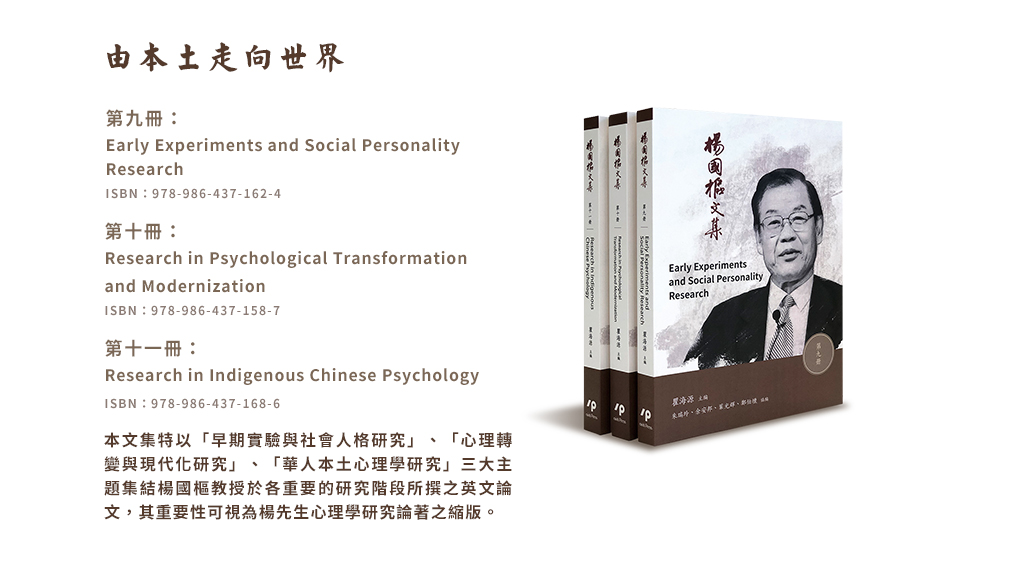
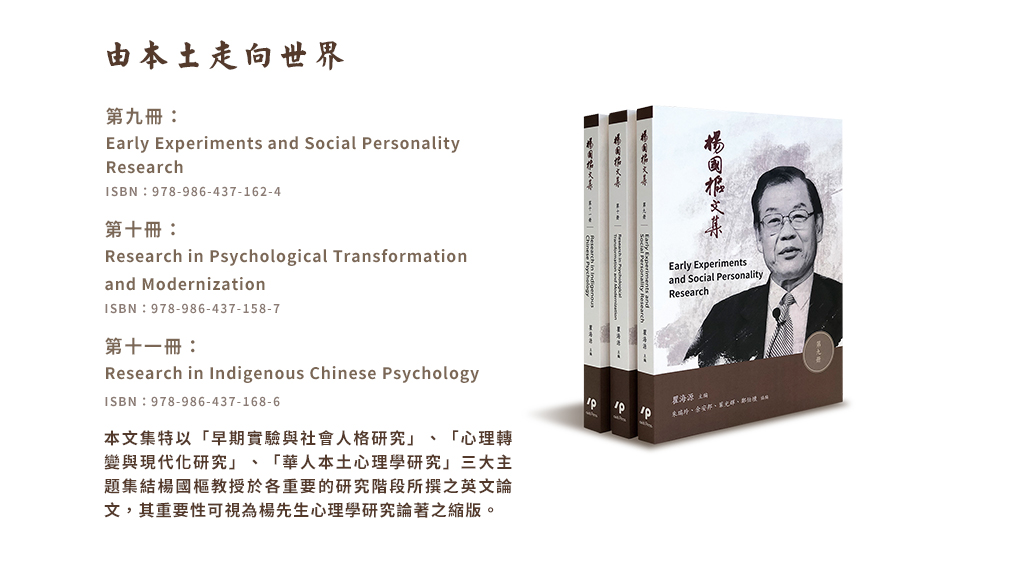
test

diff --git a/index.html b/index.html
@@ -76,12 +76,7 @@
 		</tr>
 		<tr>
 			<td>
-				<img src="img/section1-1.jpg" alt="" width="1024px" height="328px" id="content">
-			</td>
-		</tr>
-		<tr>
-			<td>
-				<img src="img/section1-2.jpg" alt="" width="1024px" height="298px">
+				<img src="img/section1-1.jpg" alt="" width="1024px" height="668px" id="content">
 			</td>
 		</tr>
 		<tr>
